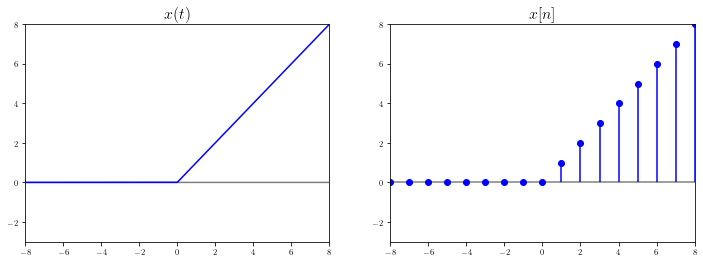
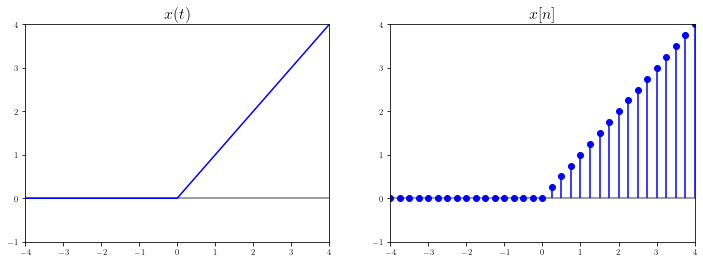
Update documentation

diff --git a/courses/dsp/intro.html b/courses/dsp/intro.html
@@ -419,8 +419,8 @@ title="Print to PDF"
     </a>
    </li>
    <li class="toc-h3 nav-item toc-entry">
-    <a class="reference internal nav-link" href="#sinc-function">
-     Sinc Function
+    <a class="reference internal nav-link" href="#sinc-functions">
+     Sinc Functions
     </a>
    </li>
   </ul>
@@ -532,8 +532,8 @@ title="Print to PDF"
     </a>
    </li>
    <li class="toc-h3 nav-item toc-entry">
-    <a class="reference internal nav-link" href="#sinc-function">
-     Sinc Function
+    <a class="reference internal nav-link" href="#sinc-functions">
+     Sinc Functions
     </a>
    </li>
   </ul>
@@ -913,13 +913,13 @@ title="Print to PDF"
 <span class="p">)</span>
 
 <span class="n">mpl_axes_plot</span><span class="p">(</span><span class="n">ax</span><span class="p">[</span><span class="mi">0</span><span class="p">],</span> <span class="n">t</span><span class="o">*</span><span class="n">sp</span><span class="o">.</span><span class="n">Heaviside</span><span class="p">(</span><span class="n">t</span><span class="p">),</span> <span class="p">(</span><span class="n">t</span><span class="p">,</span> <span class="o">-</span><span class="mi">40</span><span class="p">,</span> <span class="mi">40</span><span class="p">),</span> <span class="n">color</span><span class="o">=</span><span class="s1">&#39;b&#39;</span><span class="p">)</span>
-<span class="n">ax</span><span class="p">[</span><span class="mi">0</span><span class="p">]</span><span class="o">.</span><span class="n">set_xlim</span><span class="p">(</span><span class="o">-</span><span class="mi">8</span><span class="p">,</span> <span class="mi">8</span><span class="p">,</span> <span class="mi">1</span><span class="p">)</span>
-<span class="n">ax</span><span class="p">[</span><span class="mi">0</span><span class="p">]</span><span class="o">.</span><span class="n">set_ylim</span><span class="p">(</span><span class="o">-</span><span class="mi">3</span><span class="p">,</span> <span class="mi">8</span><span class="p">,</span> <span class="mi">1</span><span class="p">)</span>
+<span class="n">ax</span><span class="p">[</span><span class="mi">0</span><span class="p">]</span><span class="o">.</span><span class="n">set_xlim</span><span class="p">(</span><span class="o">-</span><span class="mi">4</span><span class="p">,</span> <span class="mi">4</span><span class="p">,</span> <span class="mi">1</span><span class="p">)</span>
+<span class="n">ax</span><span class="p">[</span><span class="mi">0</span><span class="p">]</span><span class="o">.</span><span class="n">set_ylim</span><span class="p">(</span><span class="o">-</span><span class="mi">1</span><span class="p">,</span> <span class="mi">4</span><span class="p">,</span> <span class="mi">1</span><span class="p">)</span>
 <span class="n">ax</span><span class="p">[</span><span class="mi">0</span><span class="p">]</span><span class="o">.</span><span class="n">set_title</span><span class="p">(</span><span class="sa">r</span><span class="s1">&#39;$x(t)$&#39;</span><span class="p">,</span> <span class="n">fontsize</span><span class="o">=</span><span class="mi">16</span><span class="p">)</span>
 
-<span class="n">mpl_axes_stem</span><span class="p">(</span><span class="n">ax</span><span class="p">[</span><span class="mi">1</span><span class="p">],</span> <span class="n">t</span><span class="o">*</span><span class="n">sp</span><span class="o">.</span><span class="n">Heaviside</span><span class="p">(</span><span class="n">t</span><span class="p">),</span> <span class="p">(</span><span class="n">t</span><span class="p">,</span> <span class="o">-</span><span class="mi">40</span><span class="p">,</span> <span class="mi">40</span><span class="p">,</span> <span class="mi">1</span><span class="p">),</span> <span class="n">linefmt</span><span class="o">=</span><span class="s1">&#39;b&#39;</span><span class="p">,</span> <span class="n">markerfmt</span><span class="o">=</span><span class="s1">&#39;bo&#39;</span><span class="p">)</span>
-<span class="n">ax</span><span class="p">[</span><span class="mi">1</span><span class="p">]</span><span class="o">.</span><span class="n">set_xlim</span><span class="p">(</span><span class="o">-</span><span class="mi">8</span><span class="p">,</span> <span class="mi">8</span><span class="p">,</span> <span class="mi">1</span><span class="p">)</span>
-<span class="n">ax</span><span class="p">[</span><span class="mi">1</span><span class="p">]</span><span class="o">.</span><span class="n">set_ylim</span><span class="p">(</span><span class="o">-</span><span class="mi">3</span><span class="p">,</span> <span class="mi">8</span><span class="p">,</span> <span class="mi">1</span><span class="p">)</span>
+<span class="n">mpl_axes_stem</span><span class="p">(</span><span class="n">ax</span><span class="p">[</span><span class="mi">1</span><span class="p">],</span> <span class="n">t</span><span class="o">*</span><span class="n">sp</span><span class="o">.</span><span class="n">Heaviside</span><span class="p">(</span><span class="n">t</span><span class="p">),</span> <span class="p">(</span><span class="n">t</span><span class="p">,</span> <span class="o">-</span><span class="mi">40</span><span class="p">,</span> <span class="mi">40</span><span class="p">,</span> <span class="mf">0.25</span><span class="p">),</span> <span class="n">linefmt</span><span class="o">=</span><span class="s1">&#39;b&#39;</span><span class="p">,</span> <span class="n">markerfmt</span><span class="o">=</span><span class="s1">&#39;bo&#39;</span><span class="p">)</span>
+<span class="n">ax</span><span class="p">[</span><span class="mi">1</span><span class="p">]</span><span class="o">.</span><span class="n">set_xlim</span><span class="p">(</span><span class="o">-</span><span class="mi">4</span><span class="p">,</span> <span class="mi">4</span><span class="p">,</span> <span class="mi">1</span><span class="p">)</span>
+<span class="n">ax</span><span class="p">[</span><span class="mi">1</span><span class="p">]</span><span class="o">.</span><span class="n">set_ylim</span><span class="p">(</span><span class="o">-</span><span class="mi">1</span><span class="p">,</span> <span class="mi">4</span><span class="p">,</span> <span class="mi">1</span><span class="p">)</span>
 <span class="n">ax</span><span class="p">[</span><span class="mi">1</span><span class="p">]</span><span class="o">.</span><span class="n">set_title</span><span class="p">(</span><span class="sa">r</span><span class="s1">&#39;$x[n]$&#39;</span><span class="p">,</span> <span class="n">fontsize</span><span class="o">=</span><span class="mi">16</span><span class="p">)</span>
 
 <span class="n">plt</span><span class="o">.</span><span class="n">show</span><span class="p">()</span>
@@ -943,12 +943,12 @@ title="Print to PDF"
 <span class="p">)</span>
 
 <span class="n">mpl_axes_plot</span><span class="p">(</span><span class="n">ax</span><span class="p">[</span><span class="mi">0</span><span class="p">],</span> <span class="n">sp</span><span class="o">.</span><span class="n">Heaviside</span><span class="p">(</span><span class="n">t</span><span class="p">),</span> <span class="p">(</span><span class="n">t</span><span class="p">,</span> <span class="o">-</span><span class="mi">40</span><span class="p">,</span> <span class="mi">40</span><span class="p">),</span> <span class="n">color</span><span class="o">=</span><span class="s1">&#39;b&#39;</span><span class="p">)</span>
-<span class="n">ax</span><span class="p">[</span><span class="mi">0</span><span class="p">]</span><span class="o">.</span><span class="n">set_xlim</span><span class="p">(</span><span class="o">-</span><span class="mi">8</span><span class="p">,</span> <span class="mi">8</span><span class="p">,</span> <span class="mi">1</span><span class="p">)</span>
+<span class="n">ax</span><span class="p">[</span><span class="mi">0</span><span class="p">]</span><span class="o">.</span><span class="n">set_xlim</span><span class="p">(</span><span class="o">-</span><span class="mi">4</span><span class="p">,</span> <span class="mi">4</span><span class="p">,</span> <span class="mi">1</span><span class="p">)</span>
 <span class="n">ax</span><span class="p">[</span><span class="mi">0</span><span class="p">]</span><span class="o">.</span><span class="n">set_ylim</span><span class="p">(</span><span class="o">-</span><span class="mi">1</span><span class="p">,</span> <span class="mi">2</span><span class="p">,</span> <span class="mi">1</span><span class="p">)</span>
 <span class="n">ax</span><span class="p">[</span><span class="mi">0</span><span class="p">]</span><span class="o">.</span><span class="n">set_title</span><span class="p">(</span><span class="sa">r</span><span class="s1">&#39;$x(t)$&#39;</span><span class="p">,</span> <span class="n">fontsize</span><span class="o">=</span><span class="mi">16</span><span class="p">)</span>
 
-<span class="n">mpl_axes_stem</span><span class="p">(</span><span class="n">ax</span><span class="p">[</span><span class="mi">1</span><span class="p">],</span> <span class="n">sp</span><span class="o">.</span><span class="n">GreaterThan</span><span class="p">(</span><span class="n">t</span><span class="p">,</span> <span class="mi">0</span><span class="p">),</span> <span class="p">(</span><span class="n">t</span><span class="p">,</span> <span class="o">-</span><span class="mi">40</span><span class="p">,</span> <span class="mi">40</span><span class="p">,</span> <span class="mi">1</span><span class="p">),</span> <span class="n">linefmt</span><span class="o">=</span><span class="s1">&#39;b&#39;</span><span class="p">,</span> <span class="n">markerfmt</span><span class="o">=</span><span class="s1">&#39;bo&#39;</span><span class="p">)</span>
-<span class="n">ax</span><span class="p">[</span><span class="mi">1</span><span class="p">]</span><span class="o">.</span><span class="n">set_xlim</span><span class="p">(</span><span class="o">-</span><span class="mi">8</span><span class="p">,</span> <span class="mi">8</span><span class="p">,</span> <span class="mi">1</span><span class="p">)</span>
+<span class="n">mpl_axes_stem</span><span class="p">(</span><span class="n">ax</span><span class="p">[</span><span class="mi">1</span><span class="p">],</span> <span class="n">sp</span><span class="o">.</span><span class="n">GreaterThan</span><span class="p">(</span><span class="n">t</span><span class="p">,</span> <span class="mi">0</span><span class="p">),</span> <span class="p">(</span><span class="n">t</span><span class="p">,</span> <span class="o">-</span><span class="mi">40</span><span class="p">,</span> <span class="mi">40</span><span class="p">,</span> <span class="mf">0.25</span><span class="p">),</span> <span class="n">linefmt</span><span class="o">=</span><span class="s1">&#39;b&#39;</span><span class="p">,</span> <span class="n">markerfmt</span><span class="o">=</span><span class="s1">&#39;bo&#39;</span><span class="p">)</span>
+<span class="n">ax</span><span class="p">[</span><span class="mi">1</span><span class="p">]</span><span class="o">.</span><span class="n">set_xlim</span><span class="p">(</span><span class="o">-</span><span class="mi">4</span><span class="p">,</span> <span class="mi">4</span><span class="p">,</span> <span class="mi">1</span><span class="p">)</span>
 <span class="n">ax</span><span class="p">[</span><span class="mi">1</span><span class="p">]</span><span class="o">.</span><span class="n">set_ylim</span><span class="p">(</span><span class="o">-</span><span class="mi">1</span><span class="p">,</span> <span class="mi">2</span><span class="p">,</span> <span class="mi">1</span><span class="p">)</span>
 <span class="n">ax</span><span class="p">[</span><span class="mi">1</span><span class="p">]</span><span class="o">.</span><span class="n">set_title</span><span class="p">(</span><span class="sa">r</span><span class="s1">&#39;$x[n]$&#39;</span><span class="p">,</span> <span class="n">fontsize</span><span class="o">=</span><span class="mi">16</span><span class="p">)</span>
 
@@ -1068,8 +1068,8 @@ title="Print to PDF"
 </div>
 </div>
 </section>
-<section id="sinc-function">
-<h3>Sinc Function<a class="headerlink" href="#sinc-function" title="Permalink to this headline">#</a></h3>
+<section id="sinc-functions">
+<h3>Sinc Functions<a class="headerlink" href="#sinc-functions" title="Permalink to this headline">#</a></h3>
 <div class="cell tag_hide_input docutils container">
 <div class="cell_input docutils container">
 <div class="highlight-ipython3 notranslate"><div class="highlight"><pre><span></span><span class="c1"># HIDE/SHOW</span>
